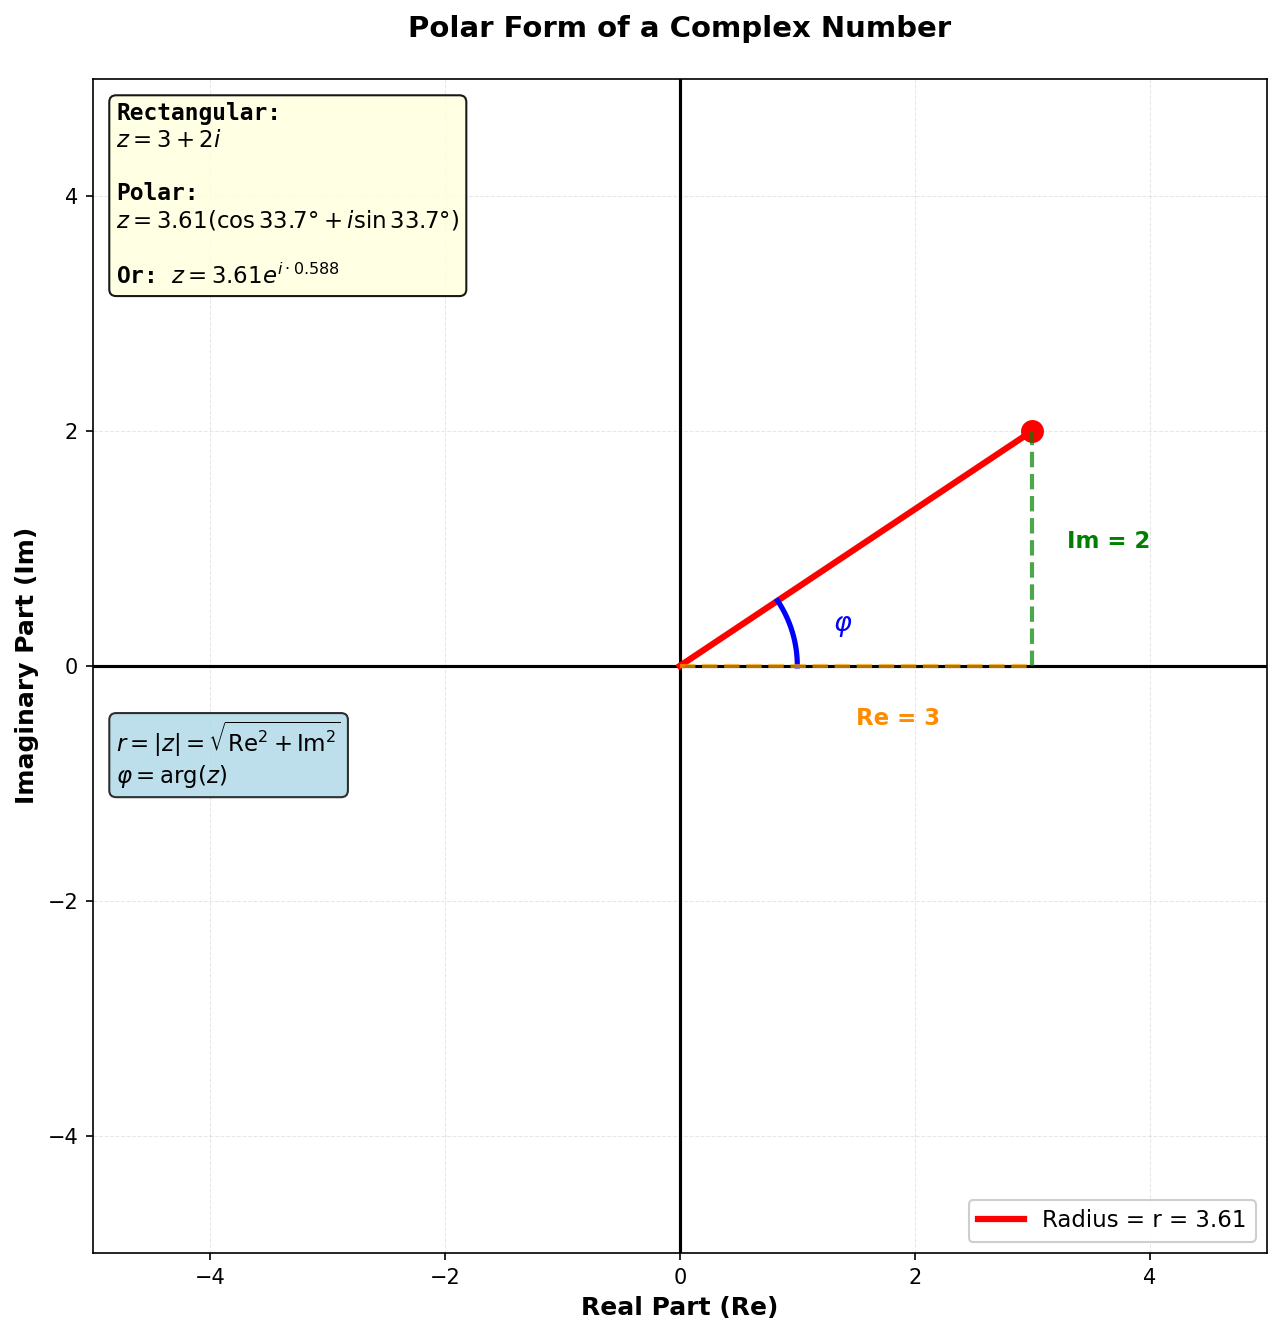
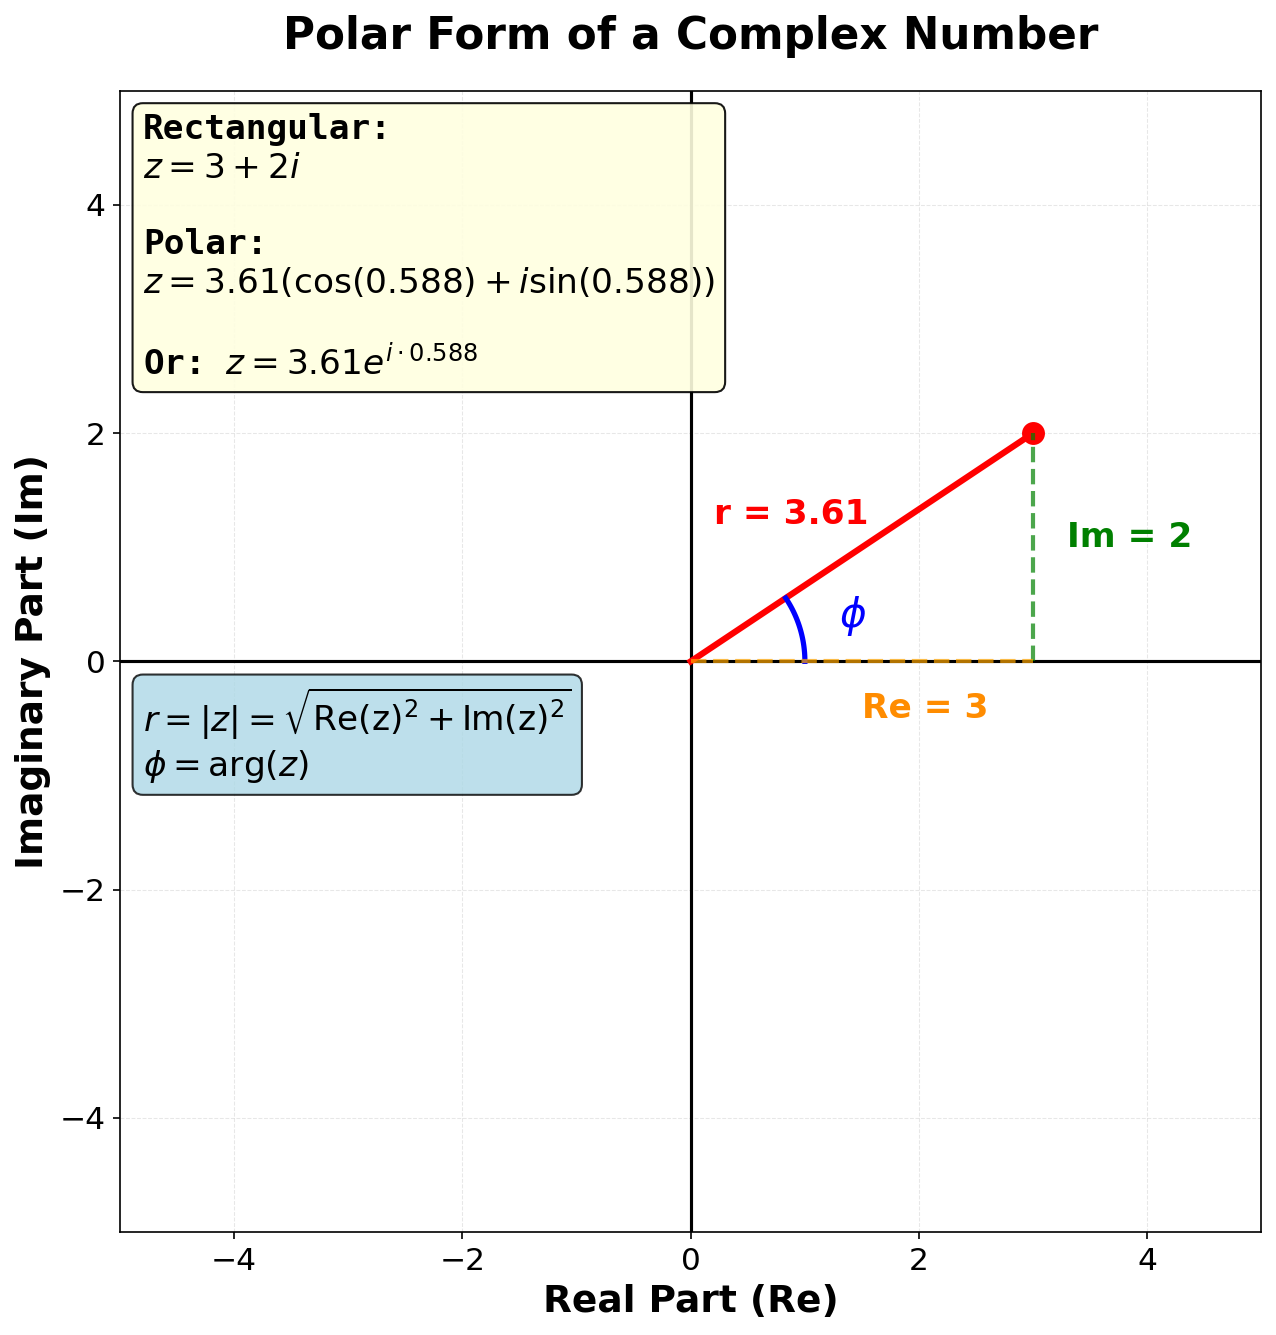
Updated figure

diff --git a/resources/polar_form_diagram.py b/resources/polar_form_diagram.py
@@ -18,61 +18,60 @@ ax.axhline(y=0, color='k', linewidth=1.5)
 ax.axvline(x=0, color='k', linewidth=1.5)
 
 # Add axis labels
-ax.set_xlabel('Real Part (Re)', fontsize=12, fontweight='bold')
-ax.set_ylabel('Imaginary Part (Im)', fontsize=12, fontweight='bold')
-ax.set_title('Polar Form of a Complex Number', fontsize=14, fontweight='bold', pad=20)
+ax.set_xlabel('Real Part (Re)', fontsize=18, fontweight='bold')
+ax.set_ylabel('Imaginary Part (Im)', fontsize=18, fontweight='bold')
+ax.set_title('Polar Form of a Complex Number', fontsize=21, fontweight='bold', pad=20)
 
 # Example: z = 3 + 2i
 real, imag = 3, 2
 r = np.sqrt(real**2 + imag**2)
 phi = np.arctan2(imag, real)
-phi_deg = np.degrees(phi)
 
 # Draw radius line
-ax.plot([0, real], [0, imag], 'r-', linewidth=3, label=f'Radius = r = {r:.2f}')
+ax.plot([0, real], [0, imag], 'r-', linewidth=3)
 ax.plot(real, imag, 'ro', markersize=10)
 
 # Draw angle arc
 arc_angles = np.linspace(0, phi, 50)
 arc_r = 1.0
 ax.plot(arc_r * np.cos(arc_angles), arc_r * np.sin(arc_angles), 'b-', linewidth=2.5)
-ax.text(1.3, 0.3, r'$\varphi$', fontsize=13, color='blue', fontweight='bold')
+ax.text(1.3, 0.3, r'$\phi$', fontsize=19.5, color='blue', fontweight='bold')
 
 # Draw rectangular components
 ax.plot([real, real], [0, imag], 'g--', linewidth=2, alpha=0.7)
 ax.plot([0, real], [0, 0], 'orange', linestyle='--', linewidth=2, alpha=0.7)
 
 # Labels for rectangular parts
-ax.text(real + 0.3, imag / 2, f'Im = {imag}', fontsize=11, fontweight='bold', color='green')
-ax.text(real / 2, -0.5, f'Re = {real}', fontsize=11, fontweight='bold', color='darkorange')
+ax.text(real + 0.3, imag / 2, f'Im = {imag}', fontsize=16.5, fontweight='bold', color='green')
+ax.text(real / 2, -0.5, f'Re = {real}', fontsize=16.5, fontweight='bold', color='darkorange')
 
 # Label the point with both forms
 box_text = (
     f'Rectangular:\n'
     f'$z = {real} + {imag}i$\n\n'
     f'Polar:\n'
-    f'$z = {r:.2f}(\\cos {phi_deg:.1f}° + i \\sin {phi_deg:.1f}°)$\n\n'
-    f'Or: $z = {r:.2f} e^{{i \cdot {phi:.3f}}}$'
+    rf'$z = {r:.2f}(\cos({phi:.3f}) + i \sin({phi:.3f}))$' + '\n\n' +
+    rf'Or: $z = {r:.2f} e^{{i \cdot {phi:.3f}}}$'
 )
-ax.text(0.02, 0.98, box_text, transform=ax.transAxes, fontsize=11, fontweight='bold',
+ax.text(0.02, 0.98, box_text, transform=ax.transAxes, fontsize=16.5, fontweight='bold',
         verticalalignment='top', bbox=dict(boxstyle='round', facecolor='lightyellow', alpha=0.9),
         family='monospace')
 
 # Add formulas
 formula_text = (
-    r'$r = |z| = \sqrt{\text{Re}^2 + \text{Im}^2}$' + '\n' +
-    r'$\varphi = \arg(z)$'
+    r'$r = |z| = \sqrt{\text{Re(z)}^2 + \text{Im(z)}^2}$' + '\n' +
+    r'$\phi = \arg(z)$'
 )
-ax.text(0.02, 0.40, formula_text, transform=ax.transAxes, fontsize=11, fontweight='bold',
+ax.text(0.02, 0.40, formula_text, transform=ax.transAxes, fontsize=16.5, fontweight='bold',
         bbox=dict(boxstyle='round', facecolor='lightblue', alpha=0.8))
 
 # Set ticks
 ax.set_xticks([-4, -2, 0, 2, 4])
 ax.set_yticks([-4, -2, 0, 2, 4])
-ax.tick_params(labelsize=10)
+ax.tick_params(labelsize=15)
 
-# Legend
-ax.legend(loc='lower right', fontsize=11, framealpha=0.95)
+# Label the radius
+ax.text(0.2, 1.2, f'r = {r:.2f}', fontsize=16.5, fontweight='bold', color='red')
 
 plt.tight_layout()
 plt.savefig('polar-form-diagram.png', dpi=150, bbox_inches='tight', facecolor='white')